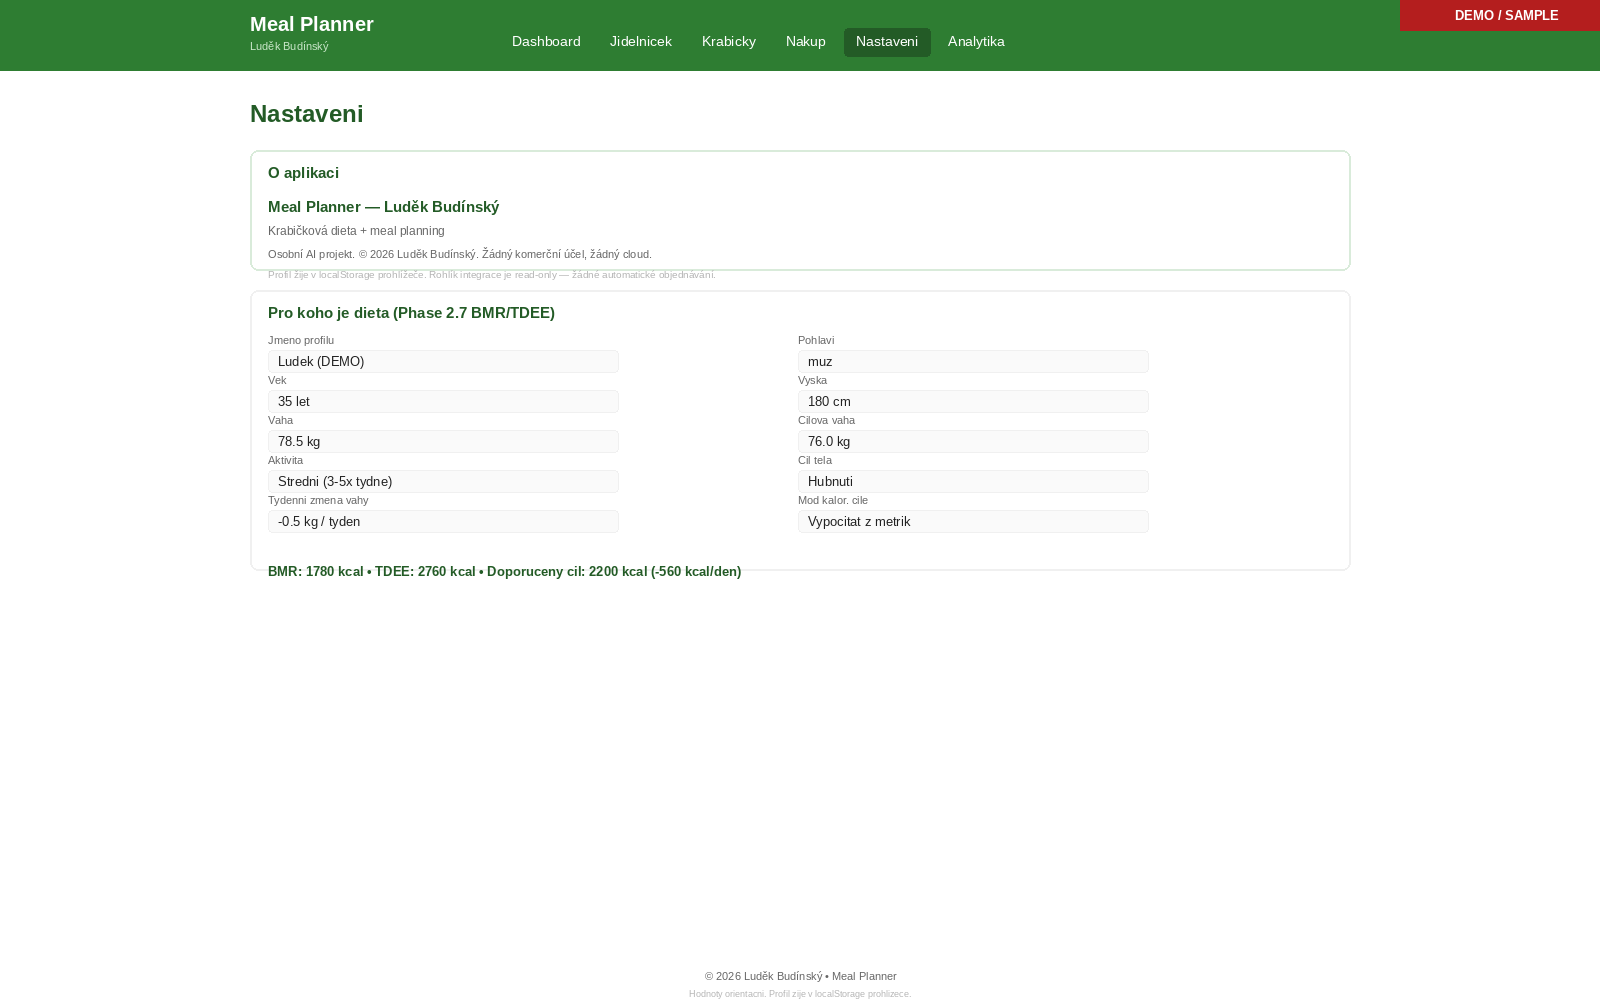
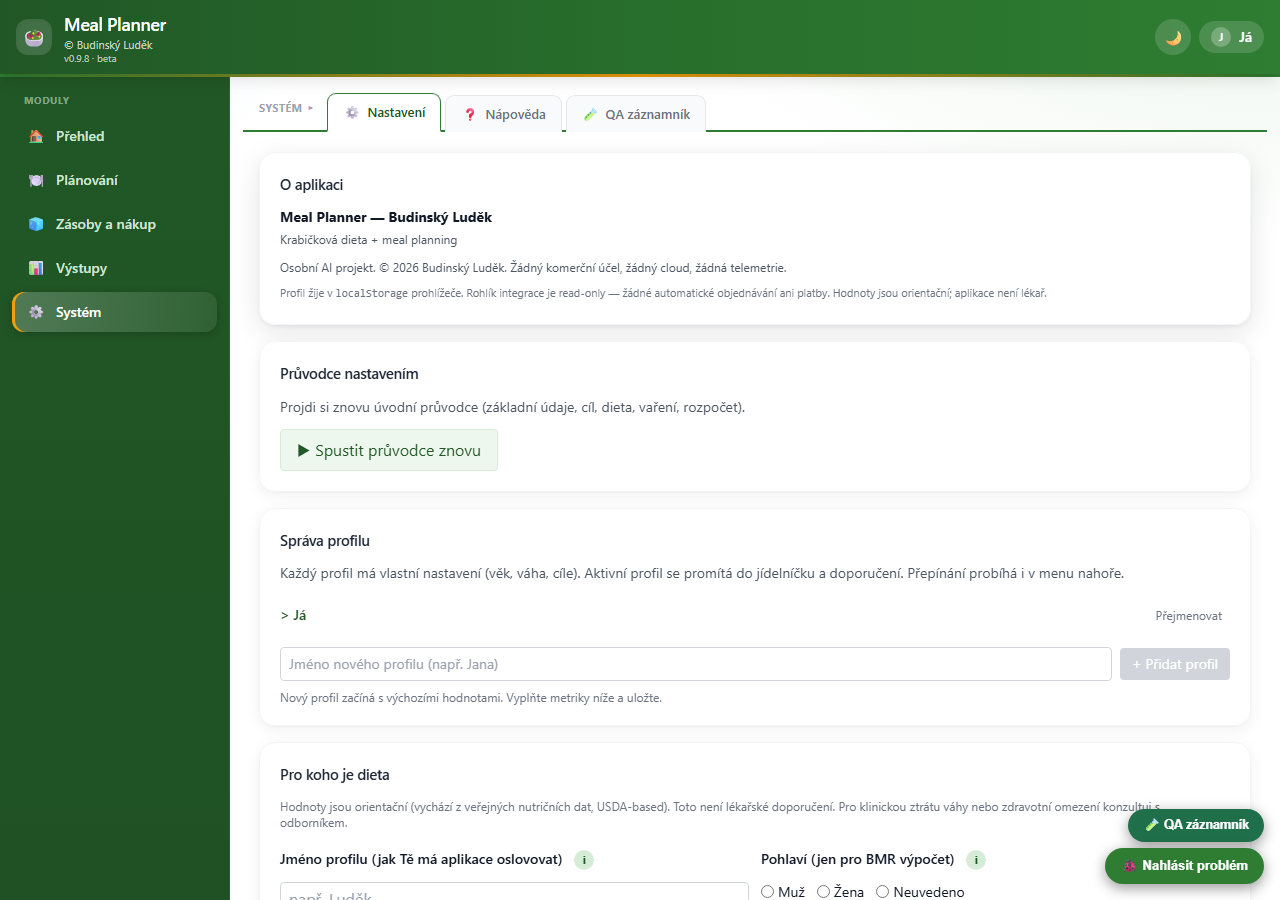
Krabickova dieta / Meal Planner — screenshoty 0.9.8 (nova nav-shell UI)
8 screenu regenerovano z 0.9.8 buildu (cockpit navigace + nove funkce):
- 01 hero: cockpit + Pruchod tydnem · 04 shopping: Oddeleni obchodu + stitky odhad
- 06 cart preview (odhad, backend nebezi) · 07 vyvoj vahy (SVG graf) + Centrum duvery
- 02/03/05/08 tyden/den/nastaveni/analytika. Demo data (vaha, seed plan).
- 08 caption upraven: Analytika/Rohlik read-only integrace (submit_checkout zakazan).
_web_lint: 49 stranek, 0 problemu. Puvod: Playwright headless z 0.9.8 dist, viewport 1280x900.

diff --git a/en/aplikace/krabickova-dieta.html b/en/aplikace/krabickova-dieta.html
@@ -75,7 +75,7 @@
       <figure style="margin:0"><img src="../../../assets/img/aplikace/krabickova-dieta/05_settings.png" alt="Nastavení — BMR/TDEE kalkulačka, doporučený kcal cíl podle váhy a aktivity" loading="lazy" style="width:100%;height:auto;border-radius:8px;border:1px solid var(--border,#0001);display:block"><figcaption style="font-size:.85rem;color:var(--txt-muted,#666);margin-top:.4rem">Nastavení — BMR/TDEE kalkulačka, doporučený kcal cíl podle váhy a aktivity</figcaption></figure>
       <figure style="margin:0"><img src="../../../assets/img/aplikace/krabickova-dieta/06_rohlik_live.png" alt="Rohlík košík — preview ceny vs minimum objednávky (objednávku potvrzuje user ručně)" loading="lazy" style="width:100%;height:auto;border-radius:8px;border:1px solid var(--border,#0001);display:block"><figcaption style="font-size:.85rem;color:var(--txt-muted,#666);margin-top:.4rem">Rohlík košík — preview ceny vs minimum objednávky (objednávku potvrzuje user ručně)</figcaption></figure>
       <figure style="margin:0"><img src="../../../assets/img/aplikace/krabickova-dieta/07_weight_chart.png" alt="Vývoj váhy — vlastní SVG sparkline, osobní tracking v localStorage prohlížeče" loading="lazy" style="width:100%;height:auto;border-radius:8px;border:1px solid var(--border,#0001);display:block"><figcaption style="font-size:.85rem;color:var(--txt-muted,#666);margin-top:.4rem">Vývoj váhy — vlastní SVG sparkline, osobní tracking v localStorage prohlížeče</figcaption></figure>
-      <figure style="margin:0"><img src="../../../assets/img/aplikace/krabickova-dieta/08_analytics.png" alt="Analytika — read-only přehled spending, typical order, recipe search" loading="lazy" style="width:100%;height:auto;border-radius:8px;border:1px solid var(--border,#0001);display:block"><figcaption style="font-size:.85rem;color:var(--txt-muted,#666);margin-top:.4rem">Analytika — read-only přehled spending, typical order, recipe search</figcaption></figure></div></section>
+      <figure style="margin:0"><img src="../../../assets/img/aplikace/krabickova-dieta/08_analytics.png" alt="Analytika / Rohlík — read-only integrace, přihlášení vlastním účtem; aplikace nikdy neobjednává (submit_checkout trvale zakázán)" loading="lazy" style="width:100%;height:auto;border-radius:8px;border:1px solid var(--border,#0001);display:block"><figcaption style="font-size:.85rem;color:var(--txt-muted,#666);margin-top:.4rem">Analytika / Rohlík — read-only integrace, přihlášení vlastním účtem; aplikace nikdy neobjednává (submit_checkout trvale zakázán)</figcaption></figure></div></section>
 
 <section>
   <h2>Status</h2>

diff --git a/it/aplikace/krabickova-dieta.html b/it/aplikace/krabickova-dieta.html
@@ -75,7 +75,7 @@
       <figure style="margin:0"><img src="../../../assets/img/aplikace/krabickova-dieta/05_settings.png" alt="Nastavení — BMR/TDEE kalkulačka, doporučený kcal cíl podle váhy a aktivity" loading="lazy" style="width:100%;height:auto;border-radius:8px;border:1px solid var(--border,#0001);display:block"><figcaption style="font-size:.85rem;color:var(--txt-muted,#666);margin-top:.4rem">Nastavení — BMR/TDEE kalkulačka, doporučený kcal cíl podle váhy a aktivity</figcaption></figure>
       <figure style="margin:0"><img src="../../../assets/img/aplikace/krabickova-dieta/06_rohlik_live.png" alt="Rohlík košík — preview ceny vs minimum objednávky (objednávku potvrzuje user ručně)" loading="lazy" style="width:100%;height:auto;border-radius:8px;border:1px solid var(--border,#0001);display:block"><figcaption style="font-size:.85rem;color:var(--txt-muted,#666);margin-top:.4rem">Rohlík košík — preview ceny vs minimum objednávky (objednávku potvrzuje user ručně)</figcaption></figure>
       <figure style="margin:0"><img src="../../../assets/img/aplikace/krabickova-dieta/07_weight_chart.png" alt="Vývoj váhy — vlastní SVG sparkline, osobní tracking v localStorage prohlížeče" loading="lazy" style="width:100%;height:auto;border-radius:8px;border:1px solid var(--border,#0001);display:block"><figcaption style="font-size:.85rem;color:var(--txt-muted,#666);margin-top:.4rem">Vývoj váhy — vlastní SVG sparkline, osobní tracking v localStorage prohlížeče</figcaption></figure>
-      <figure style="margin:0"><img src="../../../assets/img/aplikace/krabickova-dieta/08_analytics.png" alt="Analytika — read-only přehled spending, typical order, recipe search" loading="lazy" style="width:100%;height:auto;border-radius:8px;border:1px solid var(--border,#0001);display:block"><figcaption style="font-size:.85rem;color:var(--txt-muted,#666);margin-top:.4rem">Analytika — read-only přehled spending, typical order, recipe search</figcaption></figure></div></section>
+      <figure style="margin:0"><img src="../../../assets/img/aplikace/krabickova-dieta/08_analytics.png" alt="Analytika / Rohlík — read-only integrace, přihlášení vlastním účtem; aplikace nikdy neobjednává (submit_checkout trvale zakázán)" loading="lazy" style="width:100%;height:auto;border-radius:8px;border:1px solid var(--border,#0001);display:block"><figcaption style="font-size:.85rem;color:var(--txt-muted,#666);margin-top:.4rem">Analytika / Rohlík — read-only integrace, přihlášení vlastním účtem; aplikace nikdy neobjednává (submit_checkout trvale zakázán)</figcaption></figure></div></section>
 
 <section>
   <h2>Stato</h2>

diff --git a/aplikace/krabickova-dieta.html b/aplikace/krabickova-dieta.html
@@ -74,7 +74,7 @@
       <figure style="margin:0"><img src="../../assets/img/aplikace/krabickova-dieta/05_settings.png" alt="Nastavení — BMR/TDEE kalkulačka, doporučený kcal cíl podle váhy a aktivity" loading="lazy" style="width:100%;height:auto;border-radius:8px;border:1px solid var(--border,#0001);display:block"><figcaption style="font-size:.85rem;color:var(--txt-muted,#666);margin-top:.4rem">Nastavení — BMR/TDEE kalkulačka, doporučený kcal cíl podle váhy a aktivity</figcaption></figure>
       <figure style="margin:0"><img src="../../assets/img/aplikace/krabickova-dieta/06_rohlik_live.png" alt="Rohlík košík — preview ceny vs minimum objednávky (objednávku potvrzuje user ručně)" loading="lazy" style="width:100%;height:auto;border-radius:8px;border:1px solid var(--border,#0001);display:block"><figcaption style="font-size:.85rem;color:var(--txt-muted,#666);margin-top:.4rem">Rohlík košík — preview ceny vs minimum objednávky (objednávku potvrzuje user ručně)</figcaption></figure>
       <figure style="margin:0"><img src="../../assets/img/aplikace/krabickova-dieta/07_weight_chart.png" alt="Vývoj váhy — vlastní SVG sparkline, osobní tracking v localStorage prohlížeče" loading="lazy" style="width:100%;height:auto;border-radius:8px;border:1px solid var(--border,#0001);display:block"><figcaption style="font-size:.85rem;color:var(--txt-muted,#666);margin-top:.4rem">Vývoj váhy — vlastní SVG sparkline, osobní tracking v localStorage prohlížeče</figcaption></figure>
-      <figure style="margin:0"><img src="../../assets/img/aplikace/krabickova-dieta/08_analytics.png" alt="Analytika — read-only přehled spending, typical order, recipe search" loading="lazy" style="width:100%;height:auto;border-radius:8px;border:1px solid var(--border,#0001);display:block"><figcaption style="font-size:.85rem;color:var(--txt-muted,#666);margin-top:.4rem">Analytika — read-only přehled spending, typical order, recipe search</figcaption></figure></div></section>
+      <figure style="margin:0"><img src="../../assets/img/aplikace/krabickova-dieta/08_analytics.png" alt="Analytika / Rohlík — read-only integrace, přihlášení vlastním účtem; aplikace nikdy neobjednává (submit_checkout trvale zakázán)" loading="lazy" style="width:100%;height:auto;border-radius:8px;border:1px solid var(--border,#0001);display:block"><figcaption style="font-size:.85rem;color:var(--txt-muted,#666);margin-top:.4rem">Analytika / Rohlík — read-only integrace, přihlášení vlastním účtem; aplikace nikdy neobjednává (submit_checkout trvale zakázán)</figcaption></figure></div></section>
 
 <section>
   <h2>Stav</h2>
